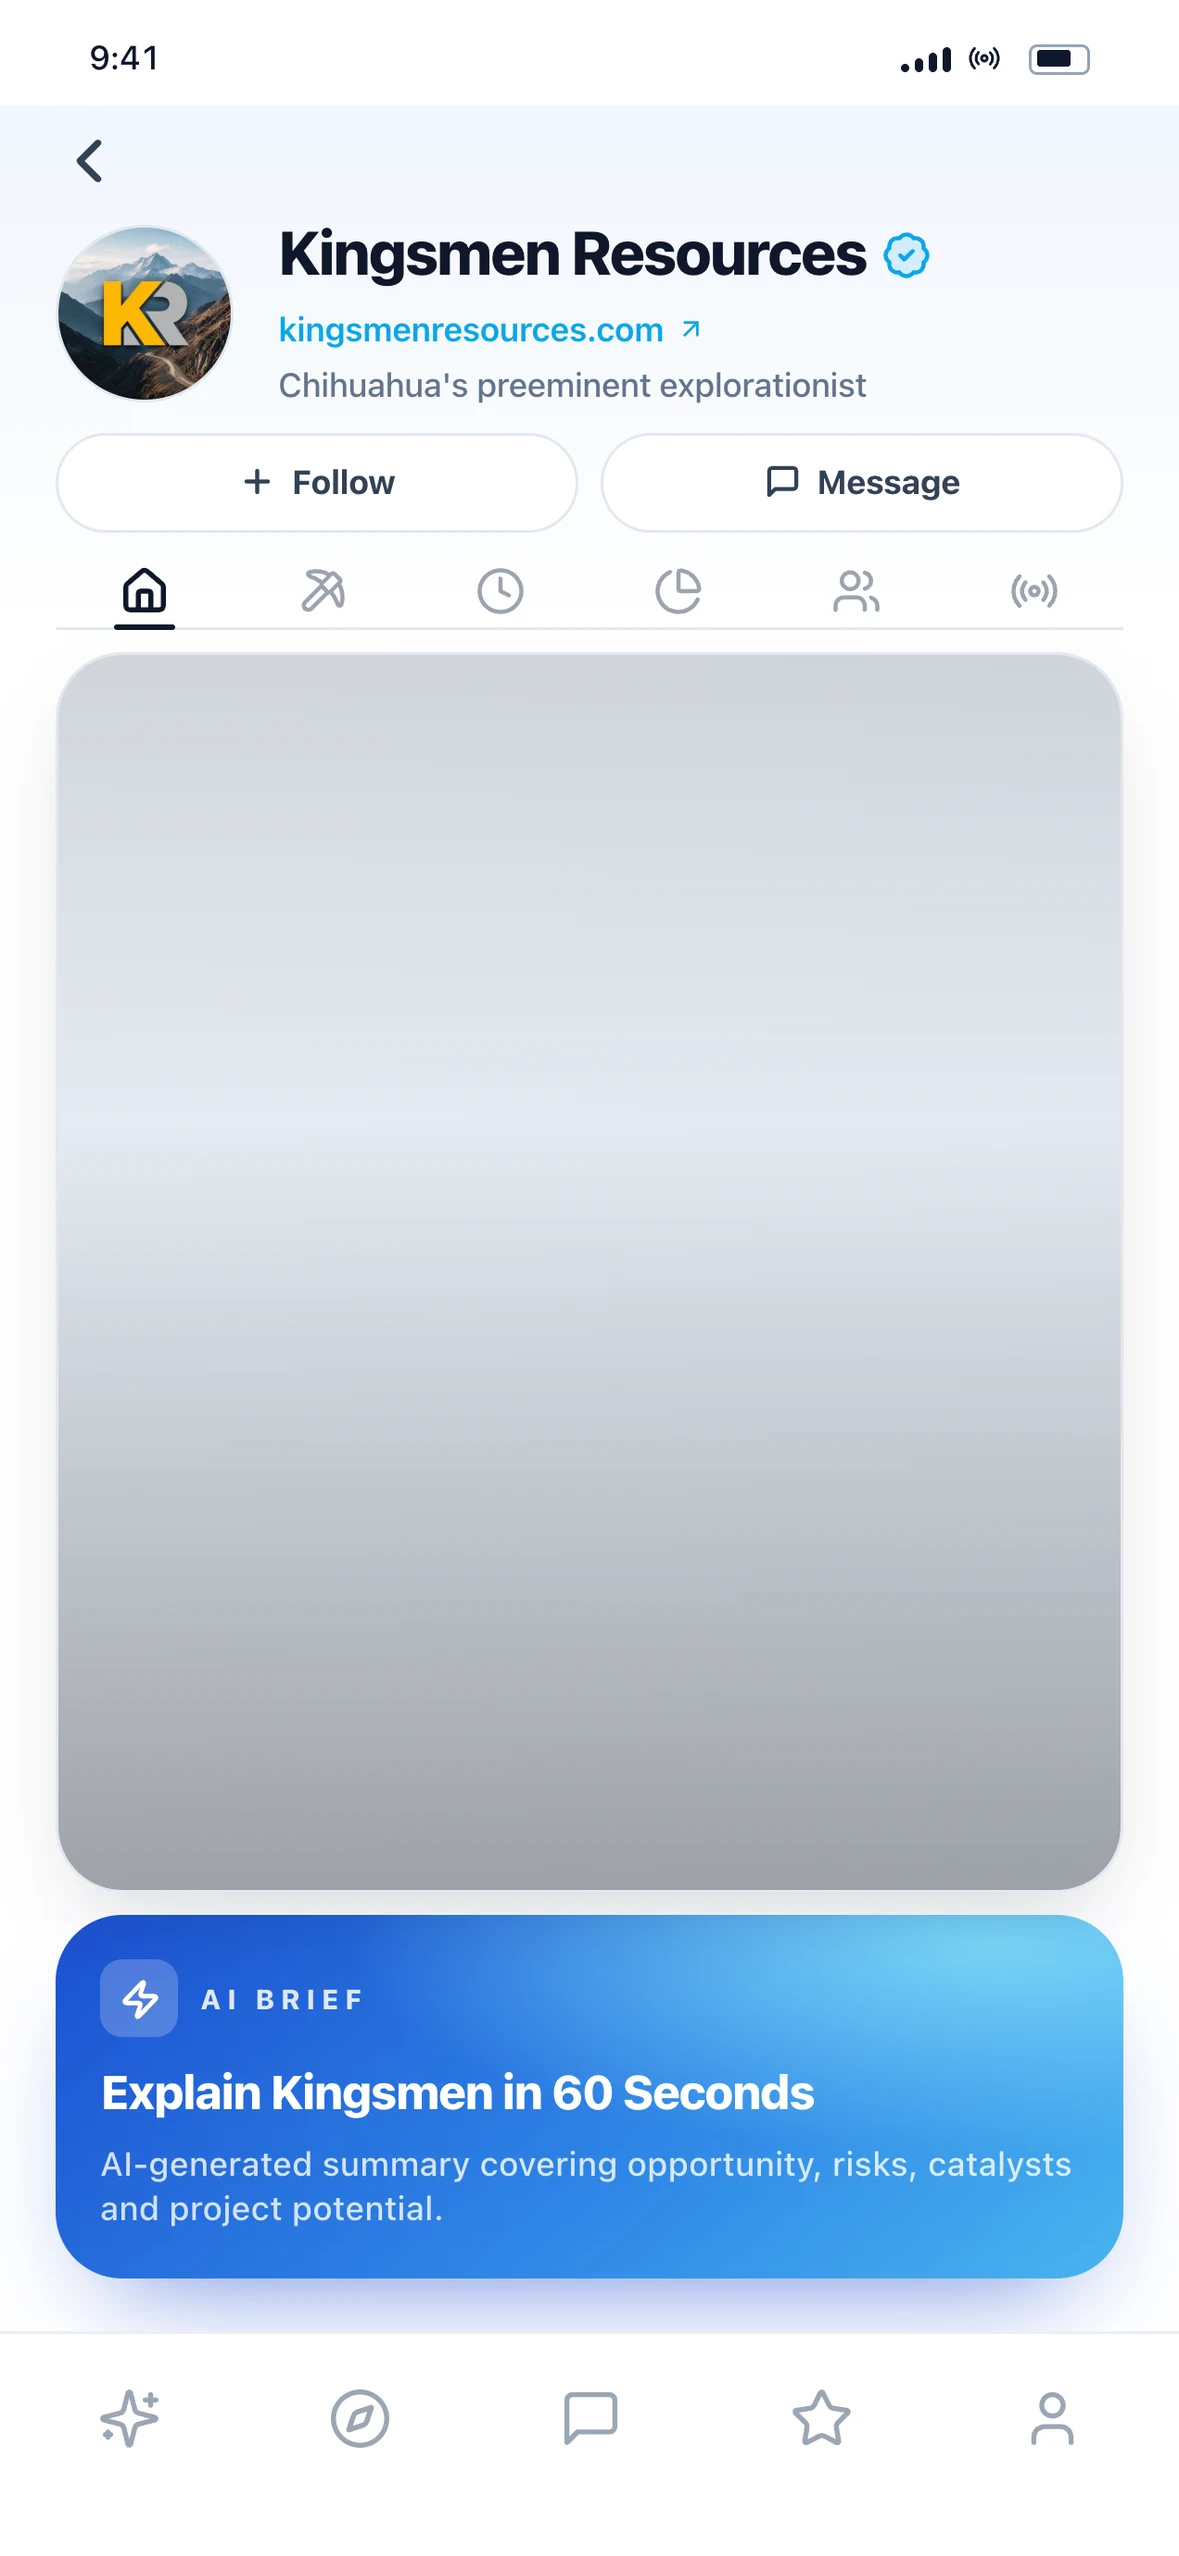
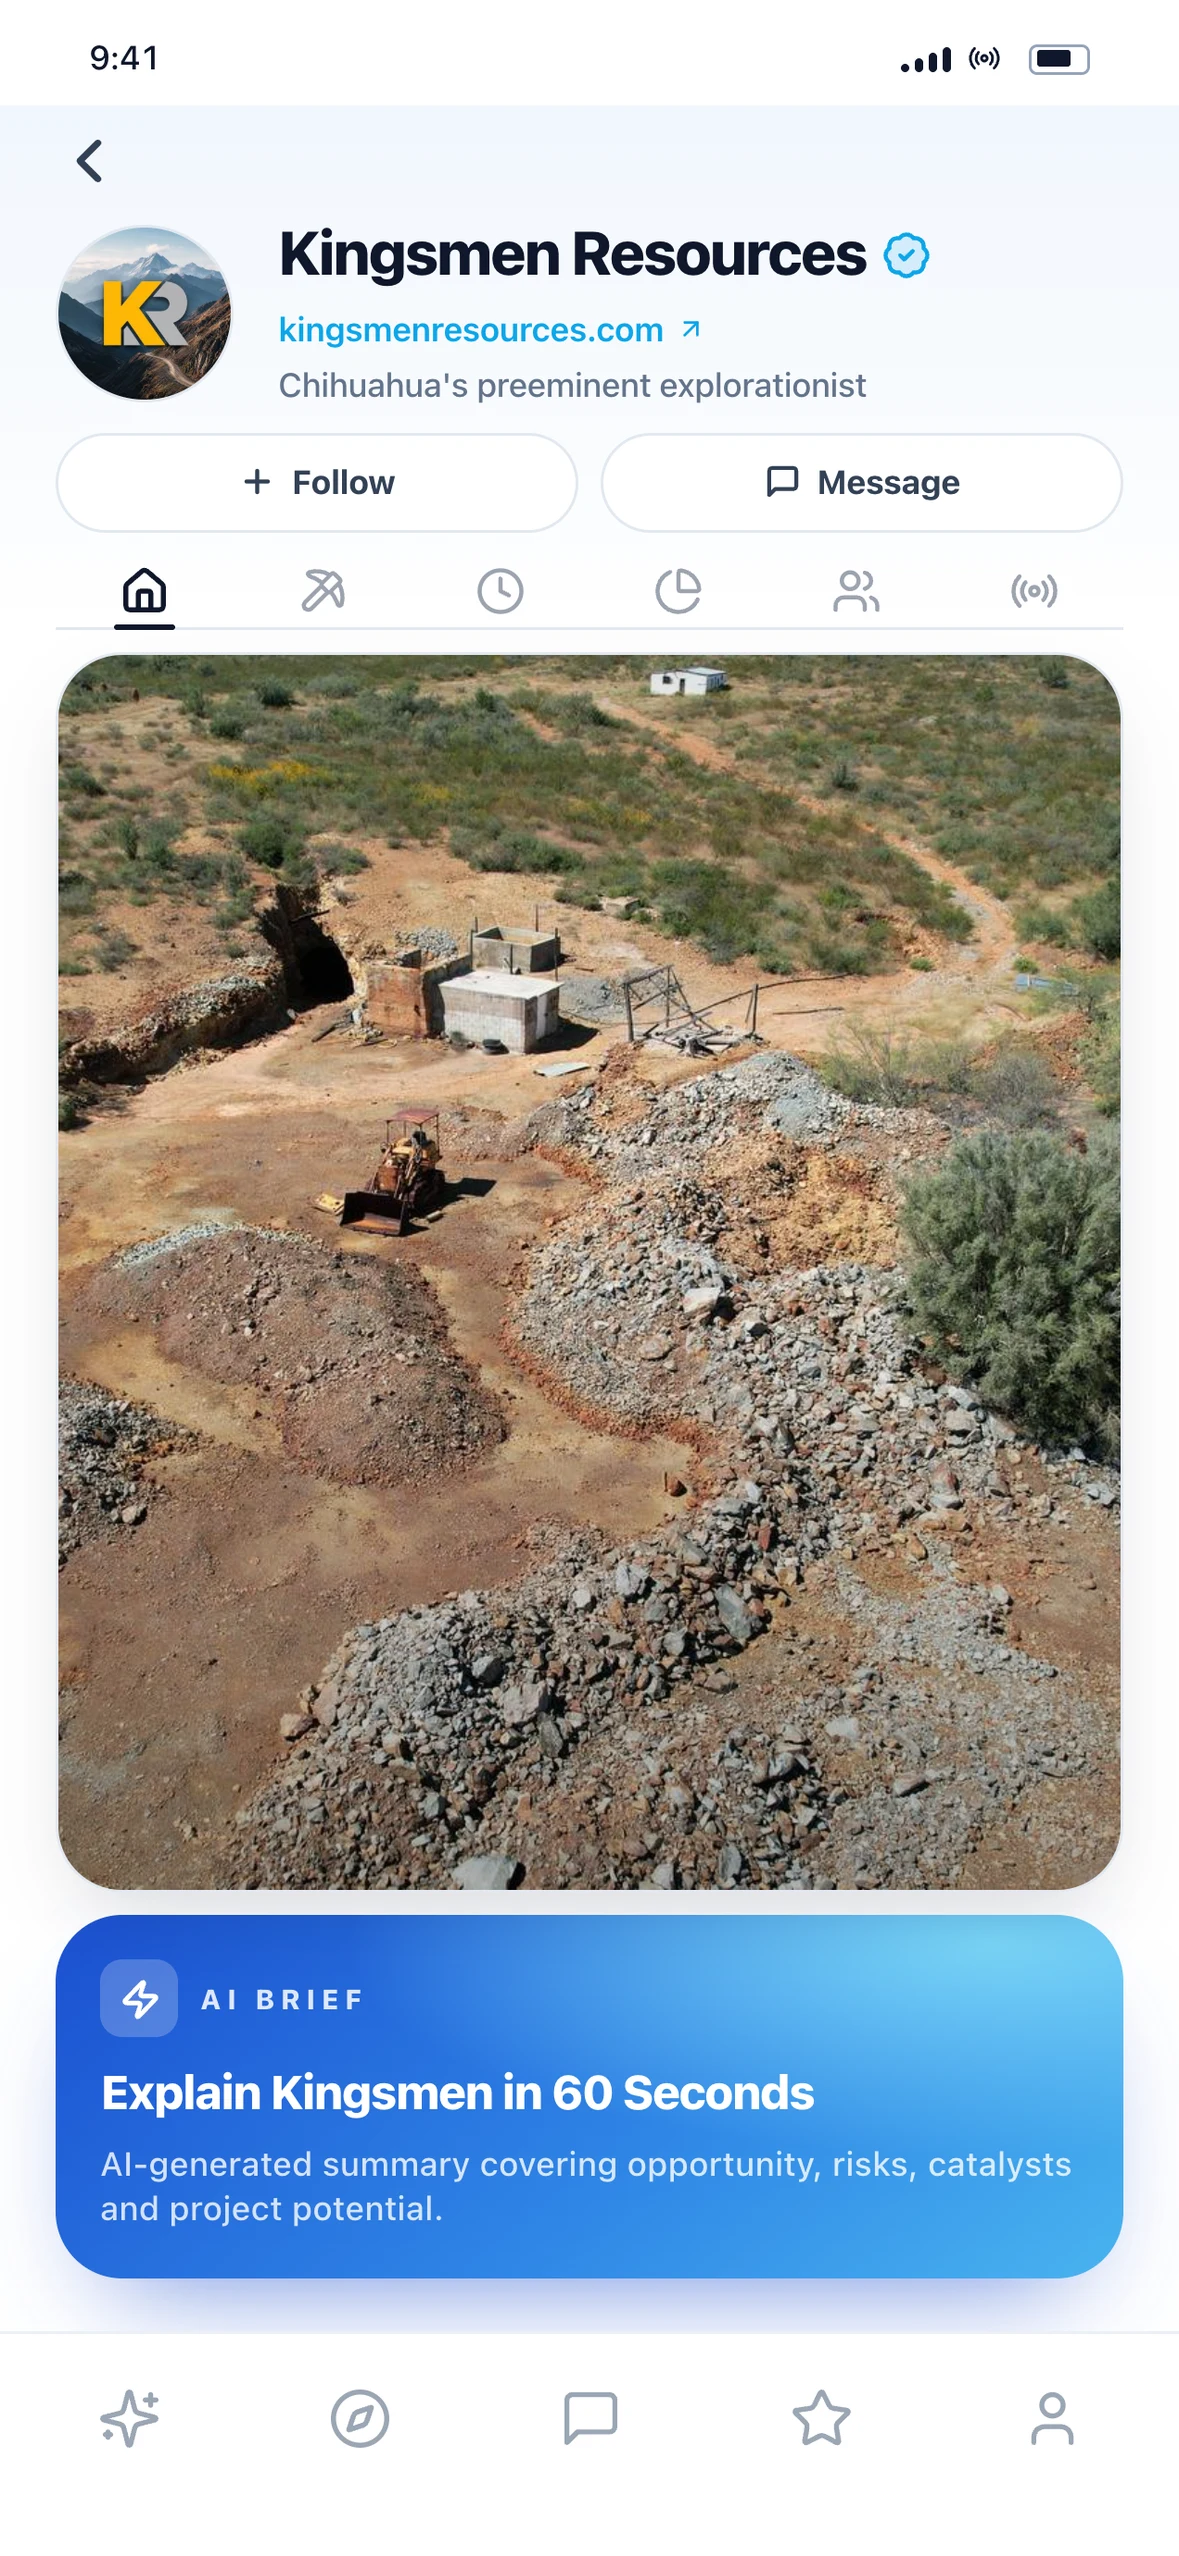
Demo: the card arrives with its photograph
Requested after reviewing it on the device: the grey opening frame reads as
something still loading rather than as an intended state, so the photograph is
present from the first frame and the LOGO is what animates in.

This is a deliberate divergence from the app, which does open grey and fade the
photograph up. Everything else is kept: the logo takes the 60ms slot the
photograph used to have, fades over the same 700ms, and the flip still lands at
2100ms from the start of the entrance -- the hold absorbs the difference so the
rhythm of hold-then-flip is unchanged.

The boot poster is regenerated to match. It depicted the blank card, and leaving
it would have put a grey cover over a card that now has its photograph -- the same
backwards jump that was fixed when the poster was first corrected. Captured from
the real app in its new opening state, verified hero 1 / logo 0.

diff --git a/src/aiBrief/PassportProto.jsx b/src/aiBrief/PassportProto.jsx
@@ -1166,12 +1166,13 @@ function Overview({ tab, goto, openBrief, following, setFollowing, bookmarked, s
   // ("photo" | "status"), so the flip is a deliberate story beat, not a timer.
   const embedCard = (() => { try { return new URLSearchParams(window.location.search).has("embed"); } catch (_) { return false; } })();
   const [flipped, setFlipped] = useState(embedCard ? false : (ppPreviewLive ? true : (introDone ? initialFlipped : false))); // false = image face, true = status face
-  // In the embed the card OPENS BLANK, exactly as it does in the app, and the director's
-  // entrance brings it up. These used to initialise to true so that a missing director could
-  // not leave the card empty — but that made the finished card visible for a beat before the
-  // entrance reset it, which reads as a flash and a swap. The safety now lives in a timer
-  // below instead, where it cannot be seen unless it is actually needed.
-  const [imgIn, setImgIn] = useState(embedCard ? false : (introDone || ppPreviewLive));
+  // In the embed the card ARRIVES WITH ITS PHOTOGRAPH. The app itself opens on a grey card
+  // and fades the photograph in, and the embed matched that until it was reviewed on the
+  // device: the grey frame reads as something still loading rather than as an intended
+  // opening, so it is not wanted here. The photograph is therefore present from the first
+  // frame and the LOGO is what animates — the entrance the card is actually judged on.
+  // Deliberate divergence from the app's own choreography, decided on the look of it.
+  const [imgIn, setImgIn] = useState(embedCard ? true : (introDone || ppPreviewLive));
   const [logoIn, setLogoIn] = useState(false);
   const logoWrapRef = useRef(null);   // the logo's wrapper — the embed entrance animates this node directly
   const heroRef = useRef(null);       // the hero photograph — same, for the embed's opening
@@ -1253,13 +1254,13 @@ function Overview({ tab, goto, openBrief, following, setFollowing, bookmarked, s
     // and logoIn true starts both CSS fades at once, and that is exactly what produced a 0ms
     // stagger when it was measured. One mechanism, the app's own.
     const playOpening = () => new Promise((resolve) => {
-      setFlipped(false); setShowLogo(true); setImgIn(false); setLogoIn(false);
+      // Photograph up, logo down: the opening state the card is revealed in.
+      setFlipped(false); setShowLogo(true); setImgIn(true); setLogoIn(false);
       let fired = false;
       const start = () => {
         if (fired) return; fired = true;
-        setTimeout(() => setImgIn(true), OPEN.hero);    // 60ms  — the app's own offsets
-        setTimeout(() => setLogoIn(true), OPEN.logo);   // 680ms
-        setTimeout(resolve, OPEN.logo + OPEN.fade);     // the later of the two has landed
+        setTimeout(() => setLogoIn(true), OPEN.hero);   // the logo takes the 60ms slot
+        setTimeout(resolve, OPEN.hero + OPEN.fade);     // it has landed
       };
       if (!STATUS_IMG) { start(); return; }
       // Gate on the element that is ALREADY on screen, not on a fresh Image. The director

diff --git a/src/marketing/demo/DirectedEmbed.jsx b/src/marketing/demo/DirectedEmbed.jsx
@@ -1121,7 +1121,10 @@ export function DirectedEmbed({ variant = "full", hardware = false, cutout = fal
     // not the director's OPEN_HOLD, which was tuned for a card that arrived already finished
     // and had nothing to wait for. The Pro walkthrough keeps OPEN_HOLD, since its beat
     // advances the walkthrough rather than flipping the card.
-    const OPEN_ENTRANCE = 1380, OPEN_FLIP_AT = 2100;
+    // The entrance is now the LOGO alone — 60ms in, 700ms fade — because the card arrives
+    // with its photograph. The flip still lands where the app puts it, so the hold absorbs
+    // the difference rather than the flip moving.
+    const OPEN_ENTRANCE = 760, OPEN_FLIP_AT = 2100;
     const OPEN_HOLD_AFTER_ENTRANCE = Math.max(0, OPEN_FLIP_AT - OPEN_ENTRANCE);
     // Wait for the machine to go idle instead of giving up on it. The opening is fired once
     // and the caller has already marked it spent, so a bare `if (S.animating) return` throws
